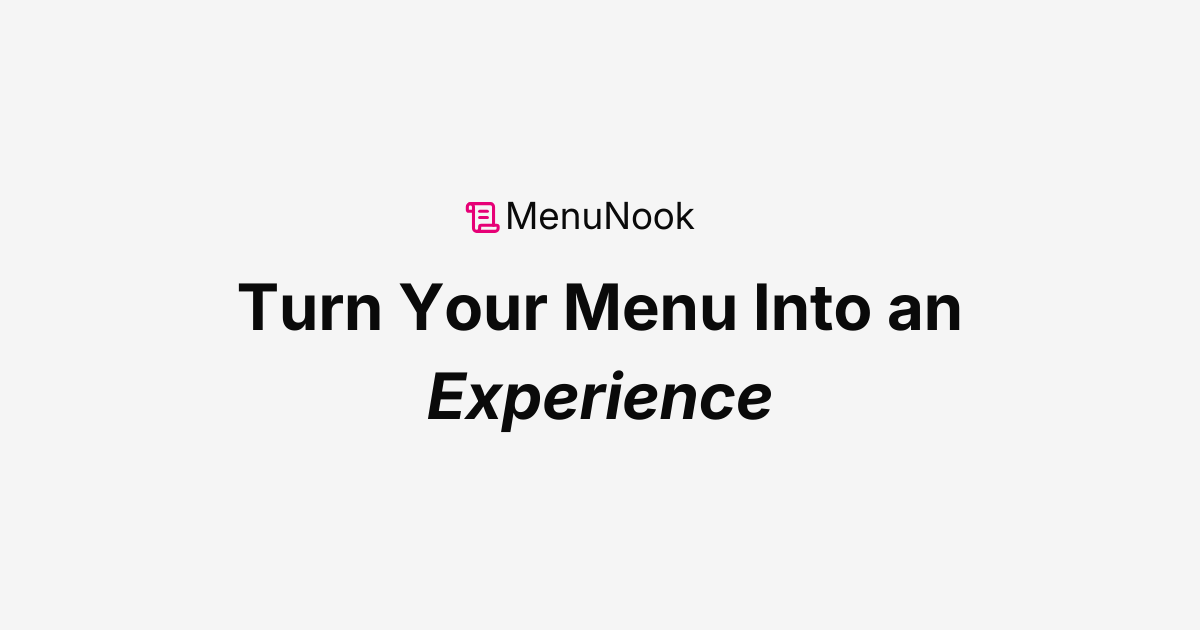
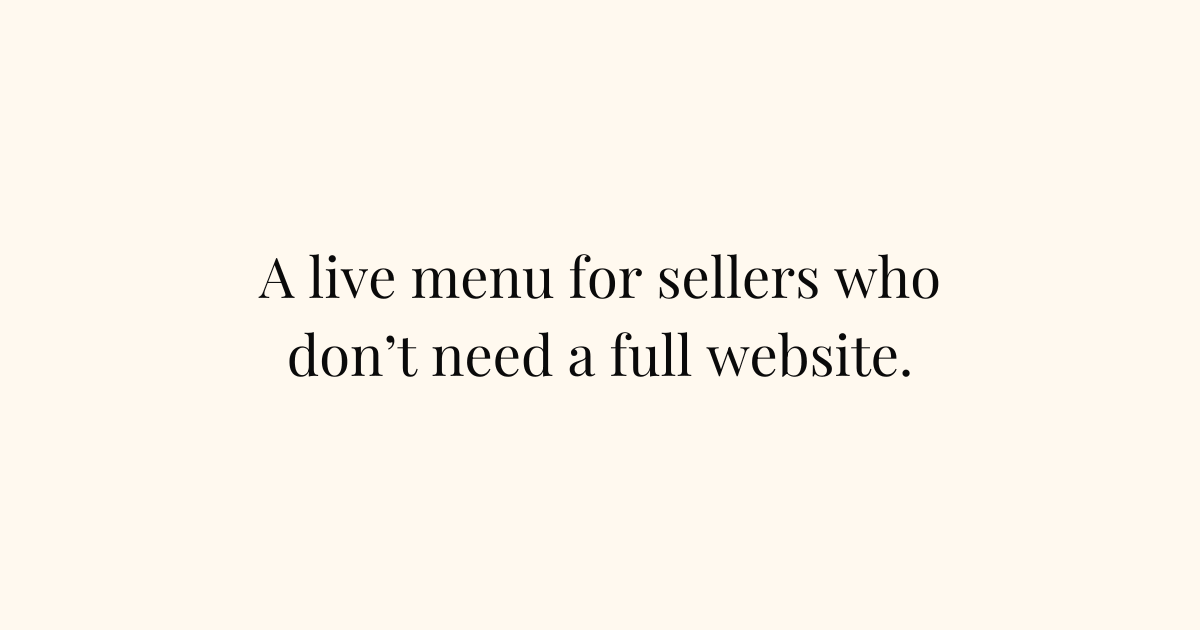
update og and readme copy

Changed region(s): [[0.185, 0.3921, 0.8017, 0.6937], [0.37, 0.3016, 0.5858, 0.3921]]

diff --git a/README.md b/README.md
@@ -2,49 +2,82 @@
 
 ![MenuNook Banner](./public/og.png)
 
-A simple menu platform for publishing clean, mobile-friendly menus that are easy to update and easy to browse by link or QR code.
+A simple live menu for local food sellers who need a clean, shareable menu page without building a full website or online checkout.
+
+MenuNook helps sellers create a mobile-friendly menu with items, prices, photos, categories, availability, ordering info, and QR sharing.
+
+Menus are easy to update, easy to share, and easy for customers to browse from a phone.
 
 ## Why MenuNook?
 
-Many menu tools feel heavier than they need to be. They either turn a simple menu into a bloated product experience, or they make basic updates harder than they should be.
+Many small food sellers do not need a full ecommerce store. They just need one reliable place where customers can see what they sell, what it costs, what is available, and how to order.
 
-MenuNook is built around a simpler idea:
+Without that, menus often end up scattered across PDFs, screenshots, social posts, DMs, or outdated links. That creates friction for both sellers and customers.
 
-- Menus should be easy to publish
-- Menus should be easy to update
-- Menus should be easy to open and browse on a phone
+MenuNook is built around a around the idea that a public menu page should be useful without becoming a full website or checkout system.
 
-The goal is not to turn menus into a complicated media product. The goal is to give businesses a clean menu they can manage without friction.
+So...
+
+- Sellers should be able to publish a clean menu in minutes
+- Customers should have one place to see what's current
+- Updates should be fast enough to make anytime
+- Sharing should work naturally by link or QR code
+
+The goal is not to turn a simple menu into a complicated product. The goal is to help local sellers look current, organized, and easy to buy from.
+
+## Product Focus
+
+MenuNook is designed for local food sellers who want a lightweight menu presence online, including home bakers, pop-ups, caterers, meal prep sellers, small cafes, delis, and other local sellers who do not need a full website.
+
+The product focuses on three core jobs:
+
+1. Create the menu
+   - Add categories, items, descriptions, prices, photos, and availability.
+
+2. Keep it current
+   - Update prices, reorder sections, change item details, and mark items sold out without rebuilding or resharing a new menu.
+3. Share and publish it
+   - Give customers one clean mobile page they can open by link or QR code, with searchable business and menu details.
 
 ## The Challenge
 
-Even simple menu software can get messy quickly. The challenge here is building something that stays fast, clear, and easy to maintain while still handling real business needs like categories, item updates, link sharing, and QR access.
+The main challenge is keeping the product simple while still supporting real business needs.
 
-Performance still matters. A menu should load quickly, feel obvious on a phone, and stay usable even in less-than-ideal network conditions.
+Menu software can get bloated quickly. MenuNook needs to stay focused: fast to set up, obvious to edit, and clear for customers. The editing experience should feel lightweight, while the public menu should feel polished and dependable.
 
-A few things I'm considering as I build:
+Key product considerations:
 
-- Keeping the public menu lightweight and mobile-friendly
-- Making updates feel immediate and low-friction for operators
-- Using caching and efficient fetching so menus stay responsive
-- Preserving a clear editing model as menus grow
-- Making link and QR sharing feel automatic, not bolted on
+- Keeping the public menu fast, mobile-friendly, and easy to browse
+- Making menu updates feel immediate and low-friction
+- Supporting real seller needs like categories, photos, prices, sold-out states, and ordering instructions
+- Giving each paid menu a searchable public page with useful metadata
+- Making QR and link sharing feel native to the product
+- Keeping the system flexible enough for different seller types without becoming a full website builder
 
-In all, the overall experience I want to build treats:
+The overall experience treats:
 
 - Text as primary
-- Optional visuals as an enhancement
-- Speed and clarity as core product features
+- Photos as helpful context
+- Speed as a product feature
+- Clarity as the main customer benefit
+- Searchability and shareability as part of the menu’s value
 
 ## Features
 
-- Build and manage menus with categories, item names, descriptions, and prices.
-- Publish clean public menu pages that work well on phones.
-- Share each menu by direct link or printable QR code.
-- Update menu content quickly from a phone or laptop.
-- Keep menus clear, fast, and easy to browse.
+- Create and manage menus with categories, items, descriptions, prices, and photos
+- Reorder categories and items with drag-and-drop
+- Mark items as available or sold out
+- Publish a clean mobile menu page for customers
+- Share menus by direct link or QR code
+- Download QR codes for print or in-person use
+- Add business details, ordering info, and location/service area context
+- Guide sellers through SEO-friendly title and description fields
+- Keep public menus simple, fast, and easy to browse
+- Support Stripe billing for paid menu publishing
 
-## Screenshots
+## Screenshots (Before the Redesign)
+
+These screenshots are from when I was thinking of this more as a utility than an experience:
 
 ![MenuNook dashboard](public/menu-nook-screenshot-0.png)
 ![MenuNook dashboard - Create menu](public/menu-nook-screenshot-1.png)
@@ -56,10 +89,14 @@ In all, the overall experience I want to build treats:
 ![MenuNook collapsing sidebar view ](public/menu-nook-screenshot-7.png)
 ![MenuNook category deletion dialog ](public/menu-nook-screenshot-8.png)
 
+## Screenshots (After the Redesign)
+
 ## Tech Stack
 
-- Frontend: Vite + React 19 with TypeScript, React Router 7, shadcn/ui (Radix), Tailwind CSS, and dnd-kit for drag-and-drop ordering.
-- Data layer: tRPC (client + server) paired with TanStack Query for caching and mutations.
-- Backend: Express with tRPC handlers, Supabase for auth/database/storage, and Stripe for billing.
-- Testing: Vitest with Testing Library (React, DOM, user-event), jsdom test environment, and MSW for API mocking.
-- Tooling: ESLint, Prettier, tsx, nodemon, concurrently, and Tailwind merge utilities.
+- Frontend: Vite, React 19, TypeScript, React Router 7, shadcn/ui, Radix UI, Tailwind CSS
+- Interactions: dnd-kit for drag-and-drop menu ordering
+- Data layer: tRPC with TanStack Query for type-safe fetching, caching, and mutations
+- Backend: Express with tRPC handlers
+- Auth, database, and storage: Supabase
+- Billing: Stripe subscriptions and webhook handling
+- Testing: Vitest, Testing Library, jsdom, user-event, and MSW